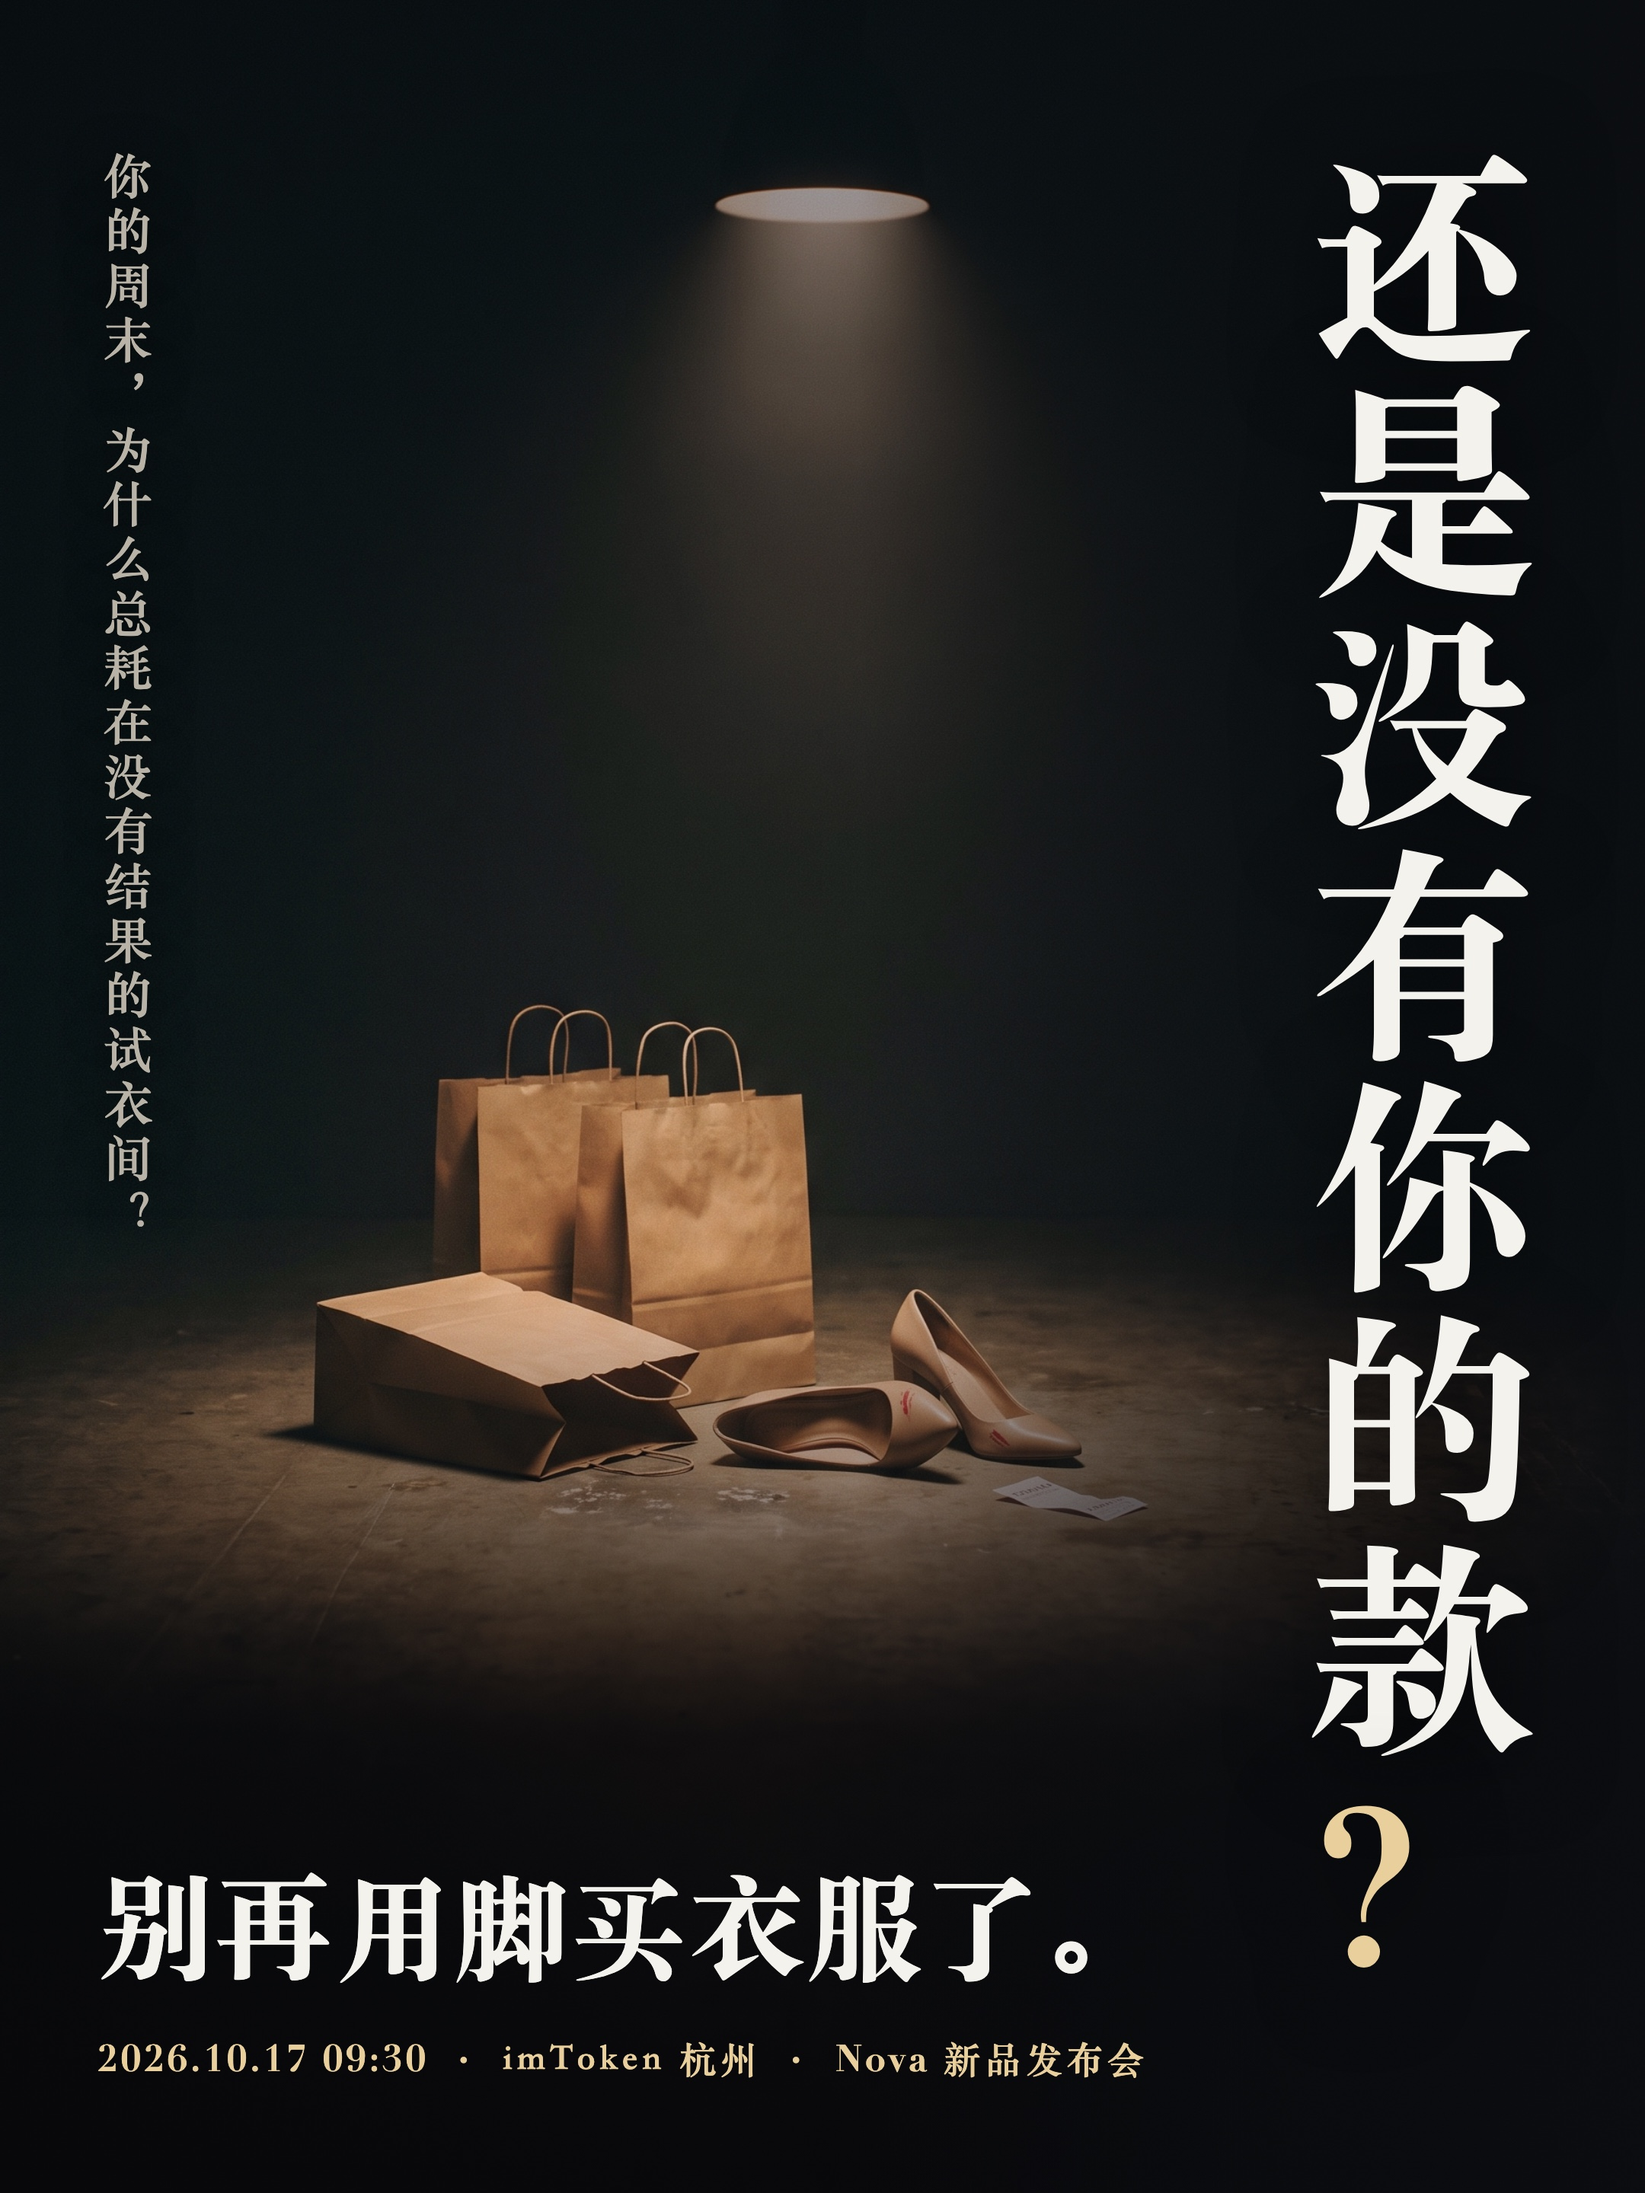
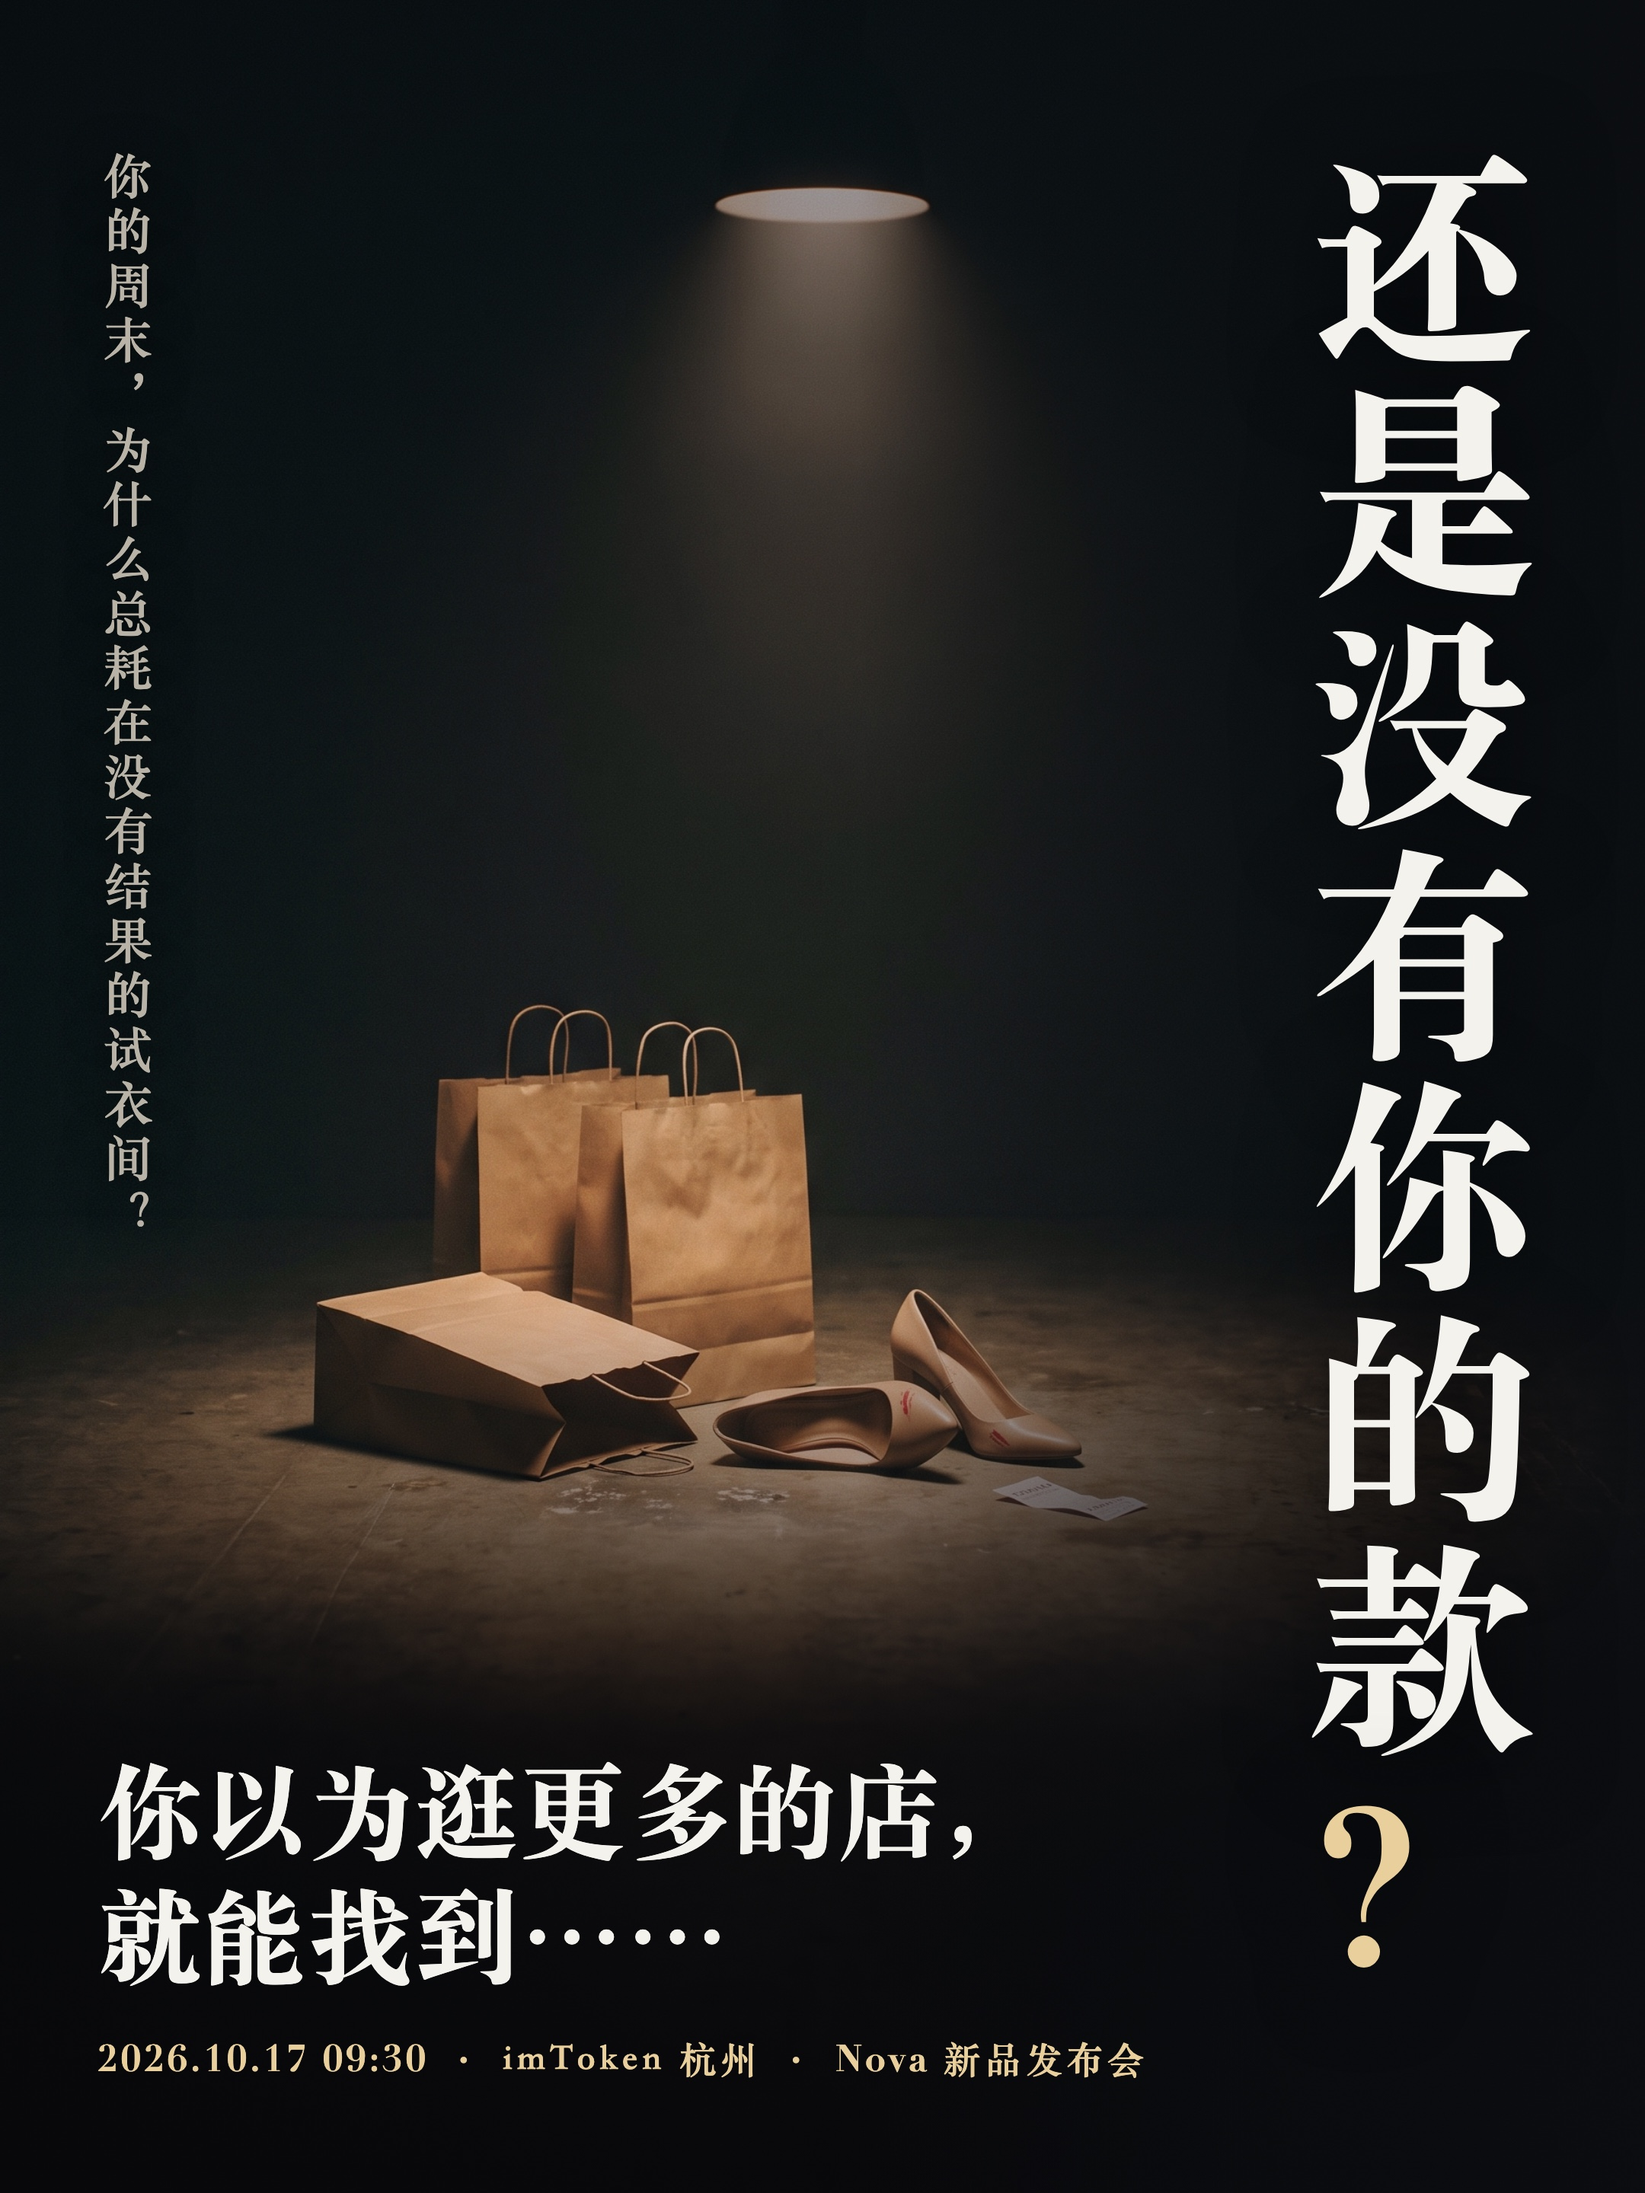
docs(宣传): 海报① 口号改为“你以为逛更多的店，就能找到……”

Changed region(s): [[0.062, 0.7812, 0.5894, 0.9062], [0.5894, 0.8438, 0.6824, 0.9062]]

diff --git a/docs/宣传/posters/poster.html b/docs/宣传/posters/poster.html
@@ -48,11 +48,11 @@
 
   /* 3:4 竖版 */
   body.portrait { --w: 1080px; --h: 1440px; --vtop: 96px; --vright: 64px; --h1: 148px; --sub: 32px; --stop: 100px;
-    --fx: 64px; --fy: 72px; --slogan: 76px; --foot-s: 24px; }
+    --fx: 64px; --fy: 72px; --slogan: 68px; --foot-s: 24px; }
   body.portrait .sub { left: 60px; }
   /* 16:9 横版 */
   body.wide { --w: 1920px; --h: 1080px; --vtop: 76px; --vright: 104px; --h1: 112px; --sub: 30px; --stop: 92px;
-    --fx: 104px; --fy: 84px; --slogan: 72px; --foot-s: 24px; }
+    --fx: 104px; --fy: 60px; --slogan: 56px; --foot-s: 24px; }
   body.wide .sub { right: 276px; }
   body.wide .fade-side { background: linear-gradient(270deg, rgba(11,13,16,.9) 0%, rgba(11,13,16,.5) 22%, transparent 40%); }
 </style>
@@ -79,7 +79,7 @@
       h1: '还是没有你的款<span class="mark">？</span>',
       sub: "你的周末，为什么总耗在没有结果的试衣间？",
       flip: true,
-      slogan: "别再用脚买衣服了。",
+      slogan: "你以为逛更多的店，<br>就能找到……",
     },
   };
   const q = new URLSearchParams(location.search);
@@ -92,7 +92,7 @@
   if (p.mediaPos) document.getElementById("media").style.backgroundPosition = p.mediaPos[f] || "center";
   document.getElementById("h1").innerHTML = p.h1;
   document.getElementById("sub").innerHTML = p.sub || "";
-  document.getElementById("slogan").textContent = p.slogan;
+  document.getElementById("slogan").innerHTML = p.slogan;
 </script>
 </body>
 </html>

diff --git a/docs/宣传/预热海报与调研.md b/docs/宣传/预热海报与调研.md
@@ -25,7 +25,7 @@
 
 | | 痛点 | 主文案 | 副问句（不上海报，可作发布配文） | 定制口号 |
 |---|---|---|---|---|
-| ① | 线下跑断腿 | 还是没有你的款？ | 你的周末，为什么总耗在没有结果的试衣间？（上海报） | 别再用脚买衣服了。 |
+| ① | 线下跑断腿 | 还是没有你的款？ | 你的周末，为什么总耗在没有结果的试衣间？（上海报） | 你以为逛更多的店，就能找到……（原“别再用脚买衣服了”有冒犯感，已弃用） |
 | ② | 线上想象不出 | 图上的人很好看。可那不是你。 | 收货、试穿、叹气、退货。你到底买了什么？ | 先穿在你身上，再决定。 |
 | ③ | 品味 | 你不是极简主义者，你只是没得选。 | 衣柜里第 11 件黑 T 恤，是你的风格，还是你的退路？ | 去看看，懂衣服的人怎么穿。 |
 
